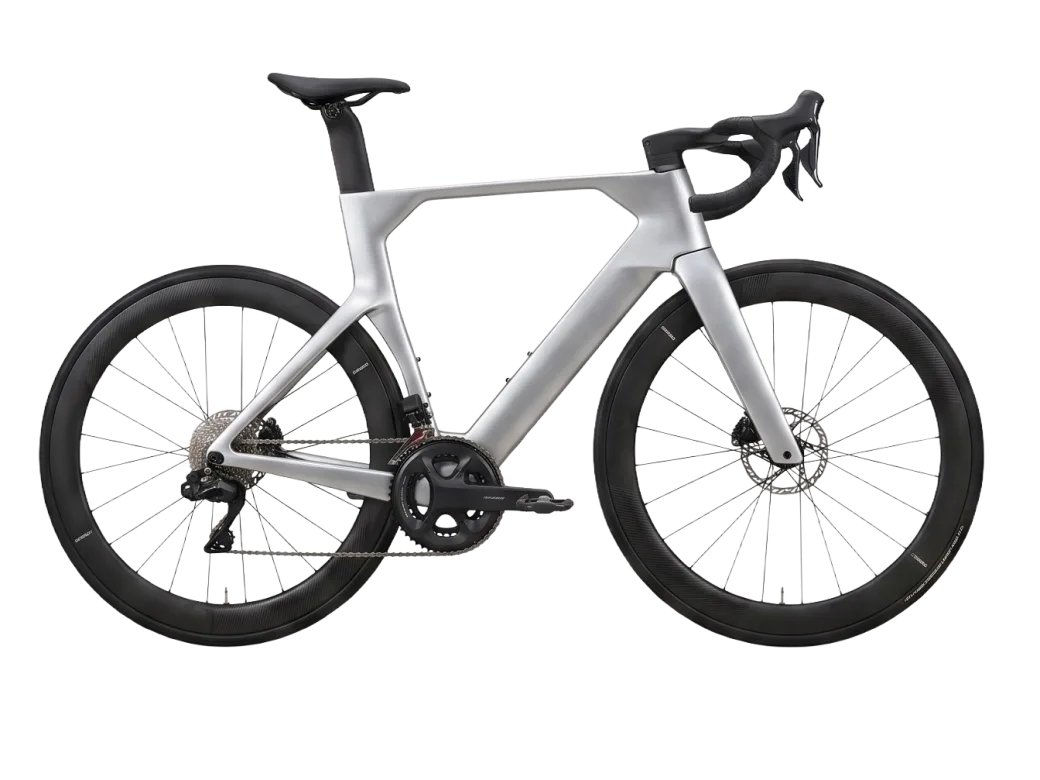
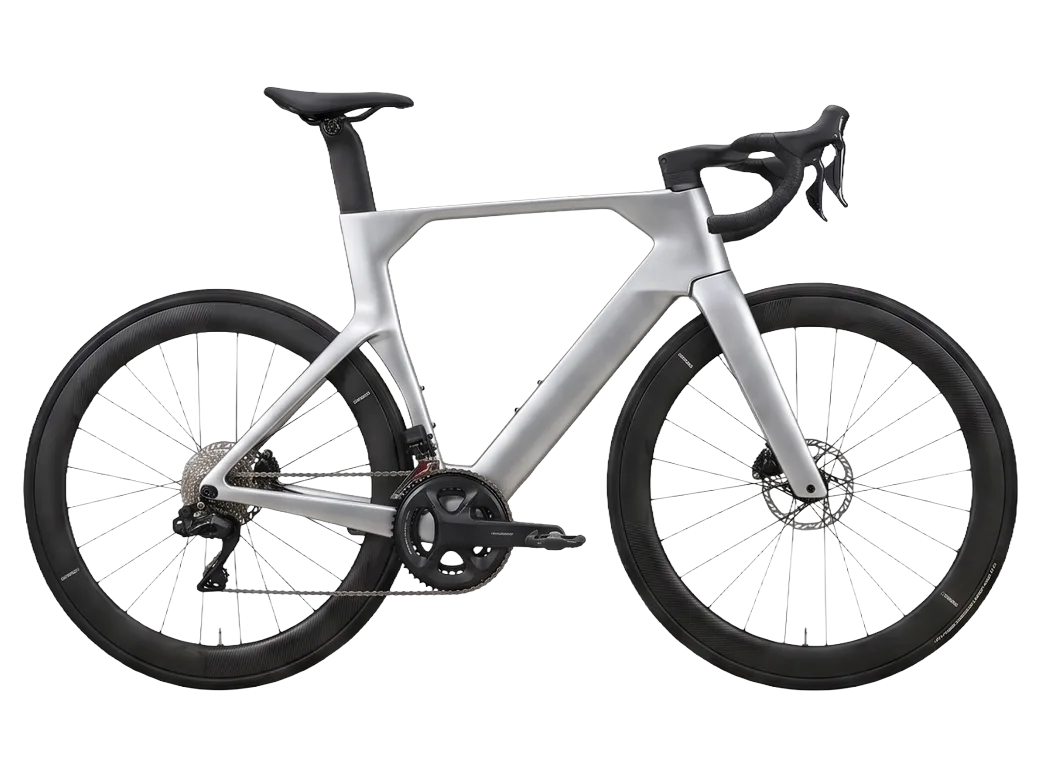
Aero config: normalise Chameleon framing, add Pedals, fix bar scroll-jump
- Chameleon Silver preview re-framed so the bike matches the other colours'
  scale (bbox 997×~607 in the 1040×780 canvas) instead of rendering smaller.
- New Pedals section under Shift unit: No pedals (default, +0) / Shimano
  PD RS 500 (+53) / Shimano Ultegra PD R8000 (+103). Total now sums every
  checked priced radio, so drivetrain + pedals add up.
- Checkout bar moved OUT of the configurator form. The form's reveal
  transform was acting as the containing block for the fixed bar, making it
  jump into view mid-scroll; as a section-level sibling it's viewport-fixed
  at all times. Bar cells are now queried from the document in main.ts.

Changed region(s): [[0.0, 0.0923, 0.9846, 0.8923]]

diff --git a/index.html b/index.html
@@ -475,29 +475,69 @@
               </li>
             </ul>
           </fieldset>
+
+          <fieldset class="variant">
+            <legend class="variant__legend mono">Pedals</legend>
+            <ul class="variant__list">
+              <li>
+                <label class="variant__card">
+                  <input type="radio" name="pedals" value="No pedals" data-price="0" checked />
+                  <span class="variant__body">
+                    <span class="variant__name">No pedals</span>
+                    <span class="variant__meta mono">Bring your own</span>
+                  </span>
+                  <span class="variant__price">Included</span>
+                </label>
+              </li>
+              <li>
+                <label class="variant__card">
+                  <input type="radio" name="pedals" value="Shimano PD RS 500" data-price="53" />
+                  <span class="variant__body">
+                    <span class="variant__name">Shimano PD RS 500</span>
+                    <span class="variant__meta mono">SPD-SL · road clipless</span>
+                  </span>
+                  <span class="variant__price">+ CHF 53</span>
+                </label>
+              </li>
+              <li>
+                <label class="variant__card">
+                  <input type="radio" name="pedals" value="Shimano Ultegra PD R8000" data-price="103" />
+                  <span class="variant__body">
+                    <span class="variant__name">Shimano Ultegra PD R8000</span>
+                    <span class="variant__meta mono">SPD-SL · carbon body</span>
+                  </span>
+                  <span class="variant__price">+ CHF 103</span>
+                </label>
+              </li>
+            </ul>
+          </fieldset>
           </div>
 
-          <div class="configure__bar">
-            <div class="configure__bar-inner shell">
-              <div class="configure__bar-info">
-                <span class="configure__sub mono" data-summary>Size 51 · Wheeltop EDS-TX · Moon Silver</span>
-                <span class="configure__fine mono">*&nbsp;Includes CHF 400 to our German warehouse &amp; CHF 59 flat-rate delivery within Switzerland.</span>
-              </div>
-              <div class="configure__discount">
-                <div class="configure__discount-row">
-                  <input type="text" class="configure__discount-input" name="discount" placeholder="Discount code" aria-label="Discount code" autocomplete="off" data-discount-input />
-                  <button type="button" class="configure__discount-apply" data-discount-apply>Apply</button>
-                </div>
-                <span class="configure__discount-msg mono" data-discount-msg aria-live="polite"></span>
-              </div>
-              <div class="configure__bar-total">
-                <span class="mono configure__total-label">Your build</span>
-                <span class="configure__price display-sm"><span data-total>CHF 1'414</span><sup class="configure__star">*</sup></span>
-              </div>
-              <a class="btn btn--solid" href="#reserve">Reserve this build</a>
-            </div>
-          </div>
         </form>
+
+        <!-- Checkout bar sits OUTSIDE the form: the form's reveal transform
+             would otherwise become the containing block for this fixed bar and
+             make it jump into view on scroll. -->
+        <div class="configure__bar">
+          <div class="configure__bar-inner shell">
+            <div class="configure__bar-info">
+              <span class="configure__sub mono" data-summary>Size 51 · Moon Silver · Wheeltop EDS-TX · No pedals</span>
+              <span class="configure__fine mono">*&nbsp;Includes CHF 400 to our German warehouse &amp; CHF 59 flat-rate delivery within Switzerland.</span>
+            </div>
+            <div class="configure__discount">
+              <div class="configure__discount-row">
+                <input type="text" class="configure__discount-input" name="discount" placeholder="Discount code" aria-label="Discount code" autocomplete="off" data-discount-input />
+                <button type="button" class="configure__discount-apply" data-discount-apply>Apply</button>
+              </div>
+              <span class="configure__discount-msg mono" data-discount-msg aria-live="polite"></span>
+            </div>
+            <div class="configure__bar-total">
+              <span class="mono configure__total-label">Your build</span>
+              <span class="configure__price display-sm"><span data-total>CHF 1'414</span><sup class="configure__star">*</sup></span>
+            </div>
+            <a class="btn btn--solid" href="#reserve">Reserve this build</a>
+          </div>
+        </div>
 
         <dialog class="size-modal" data-size-modal aria-labelledby="size-modal-title">
           <div class="size-modal__inner">

diff --git a/src/main.ts b/src/main.ts
@@ -233,8 +233,10 @@ if (!reduceMotion) {
    ---------------------------------------------------------------- */
 const configForm = document.querySelector<HTMLFormElement>("[data-configure]");
 if (configForm) {
-  const totalEl = configForm.querySelector<HTMLElement>("[data-total]");
-  const summaryEl = configForm.querySelector<HTMLElement>("[data-summary]");
+  // The checkout bar lives outside the form (so the reveal transform can't
+  // capture its fixed positioning), so its cells are queried from the document.
+  const totalEl = document.querySelector<HTMLElement>("[data-total]");
+  const summaryEl = document.querySelector<HTMLElement>("[data-summary]");
   const previewEl = configForm.querySelector<HTMLImageElement>("[data-colour-preview]");
   const previewLabelEl = configForm.querySelector<HTMLElement>("[data-colour-label]");
   const previewFinishEl = configForm.querySelector<HTMLElement>("[data-colour-finish]");
@@ -245,13 +247,13 @@ if (configForm) {
   let discountRate = 0;
 
   const update = () => {
-    // The priced choice is whichever checked radio carries a data-price.
-    const priced = configForm.querySelector<HTMLInputElement>("input[data-price]:checked");
+    // Total = the sum of every checked priced radio (drivetrain + pedals + …).
     const checked = Array.from(
       configForm.querySelectorAll<HTMLInputElement>('input[type="radio"]:checked')
     );
-    if (priced && totalEl) {
-      const net = Math.round(Number(priced.dataset.price || 0) * (1 - discountRate));
+    const base = checked.reduce((sum, i) => sum + Number(i.dataset.price || 0), 0);
+    if (totalEl) {
+      const net = Math.round(base * (1 - discountRate));
       totalEl.textContent = fmt(net);
     }
     if (summaryEl) summaryEl.textContent = checked.map((i) => i.value).join(" · ");
@@ -270,9 +272,9 @@ if (configForm) {
   configForm.addEventListener("change", update);
 
   // Discount code: apply on click or Enter; recalculates the total.
-  const discountInput = configForm.querySelector<HTMLInputElement>("[data-discount-input]");
-  const discountApply = configForm.querySelector<HTMLButtonElement>("[data-discount-apply]");
-  const discountMsg = configForm.querySelector<HTMLElement>("[data-discount-msg]");
+  const discountInput = document.querySelector<HTMLInputElement>("[data-discount-input]");
+  const discountApply = document.querySelector<HTMLButtonElement>("[data-discount-apply]");
+  const discountMsg = document.querySelector<HTMLElement>("[data-discount-msg]");
   const applyDiscount = () => {
     const code = (discountInput?.value || "").trim().toUpperCase();
     if (!code) {